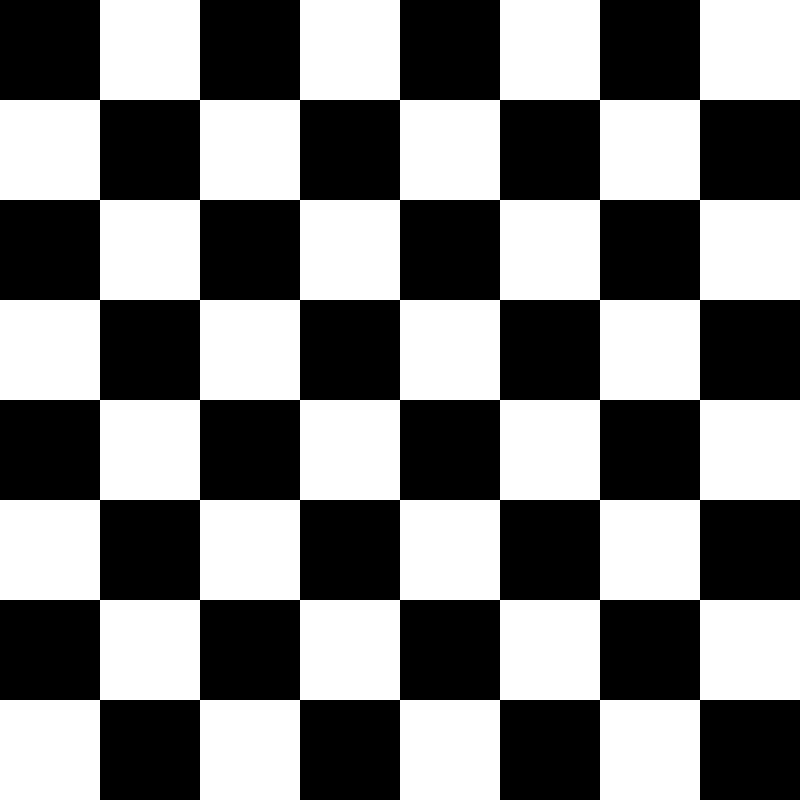
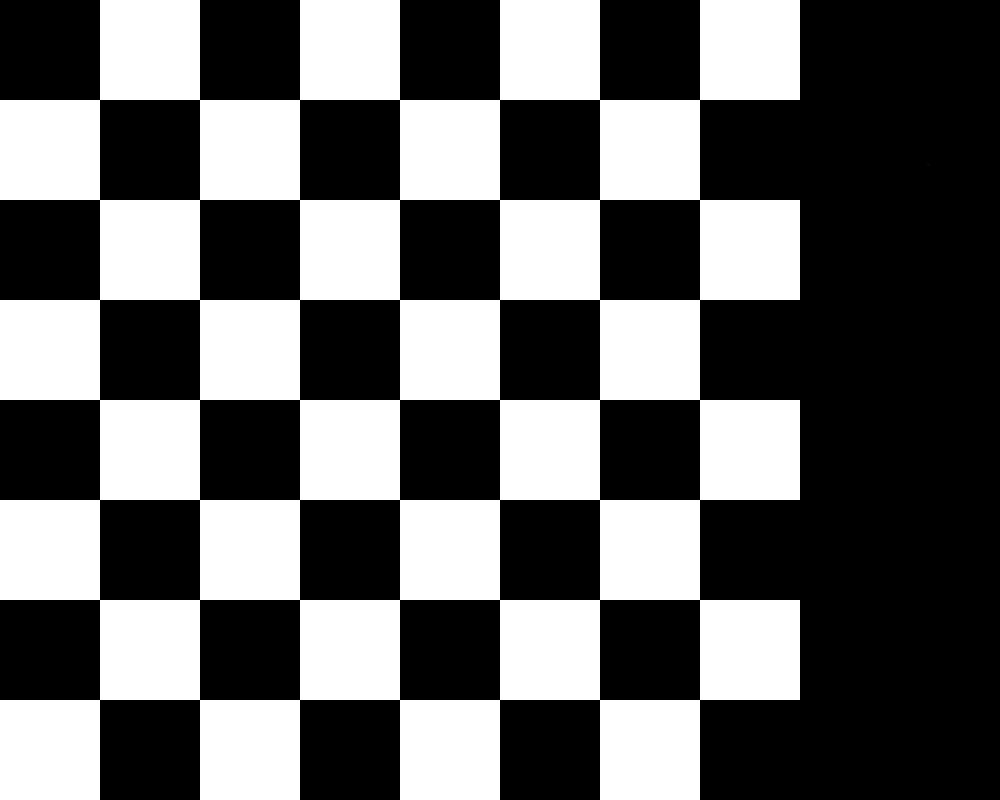
Bug quand on déplace l'image réparé!

diff --git a/JeuEchec/JeuEchec/JeuEchec/Board.cpp b/JeuEchec/JeuEchec/JeuEchec/Board.cpp
@@ -17,7 +17,7 @@ Board::Board()
 {
 	//Load PNG surface
 	gPNGSurface = IMG_Load("images/ChestBoard.png");
-	gBoard = { 100, 100, 1000, 1000 };
+	gBoard = { 0, 0, 800, 800 };
 
 	for (int i = 0; i < 8; i++)
 	{
@@ -30,21 +30,21 @@ Board::Board()
 				if (j == 0 || j == 7)
 				{
 					gCase[i].push_back(std::make_shared<Case>(gBoard.x + 100 * j, gBoard.y + 100 * i, std::make_shared<Tour>(false)));
-				}
-				else if (j == 1 || j == 6)
-				{
+				}														 
+				else if (j == 1 || j == 6)								 
+				{														 
 					gCase[i].push_back(std::make_shared<Case>(gBoard.x + 100 * j, gBoard.y + 100 * i, std::make_shared<Cheval>(false)));
-				}
-				else if (j == 2 || j == 5)
-				{
+				}														 
+				else if (j == 2 || j == 5)								 
+				{														 
 					gCase[i].push_back(std::make_shared<Case>(gBoard.x + 100 * j, gBoard.y + 100 * i, std::make_shared<Fou>(false)));
-				}
-				else if (j == 3)
-				{
+				}														 
+				else if (j == 3)										 
+				{														 
 					gCase[i].push_back(std::make_shared<Case>(gBoard.x + 100 * j, gBoard.y + 100 * i, std::make_shared<Reine>(false)));
-				}
-				else if (j == 4)
-				{
+				}														 
+				else if (j == 4)										 
+				{														 
 					gCase[i].push_back(std::make_shared<Case>(gBoard.x + 100 * j, gBoard.y + 100 * i, std::make_shared<Roi>(false)));
 				}
 			}

diff --git a/JeuEchec/JeuEchec/JeuEchec/Vector2.cpp b/JeuEchec/JeuEchec/JeuEchec/Vector2.cpp
@@ -7,8 +7,8 @@ Vector2::Vector2(int x, int y, bool isIndex)
 {
 	if (isIndex)
 	{
-		m_x = x * 100 + 100;
-		m_y = y * 100 + 100;
+		m_x = x * 100; // + 100
+		m_y = y * 100; // + 100
 		m_i = x;
 		m_j = y;
 	}
@@ -16,8 +16,8 @@ Vector2::Vector2(int x, int y, bool isIndex)
 	{
 		m_x = x;
 		m_y = y;
-		m_i = (x - 100) / 100;
-		m_j = (y - 100) / 100;
+		m_i = (x) / 100; // + 100
+		m_j = (y) / 100;  // + 100
 	}
 }
 

diff --git a/JeuEchec/JeuEchec/JeuEchec/main.cpp b/JeuEchec/JeuEchec/JeuEchec/main.cpp
@@ -15,7 +15,7 @@ and may not be redistributed without written permission.*/
 
 //Screen dimension constants
 const int SCREEN_WIDTH = 1000;
-const int SCREEN_HEIGHT = 1000;
+const int SCREEN_HEIGHT = 800;
 
 //Starts up SDL and creates window
 bool init();
